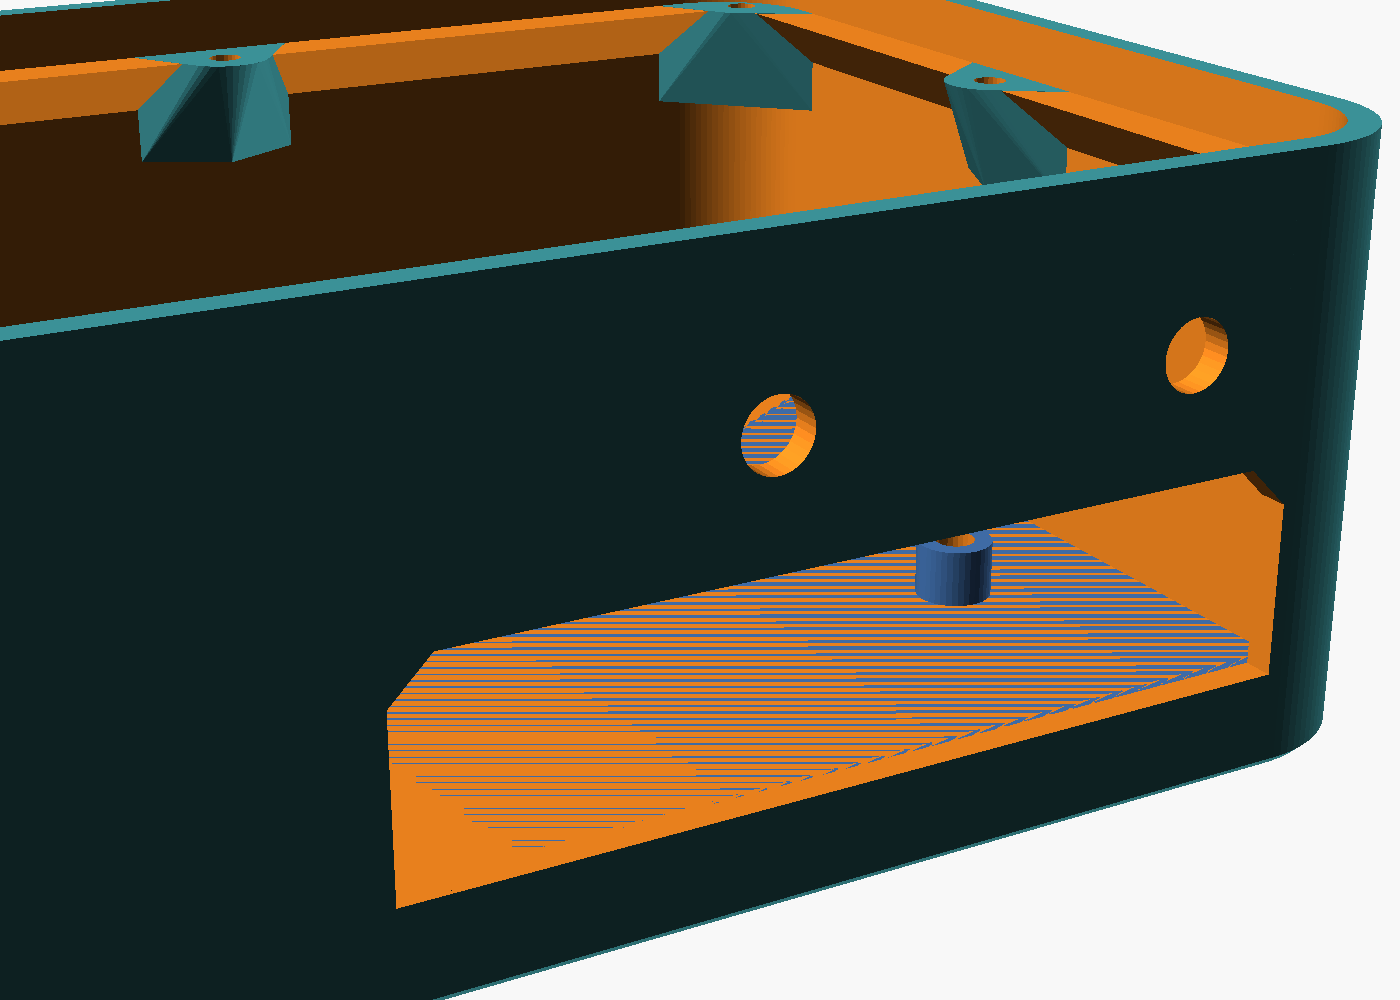
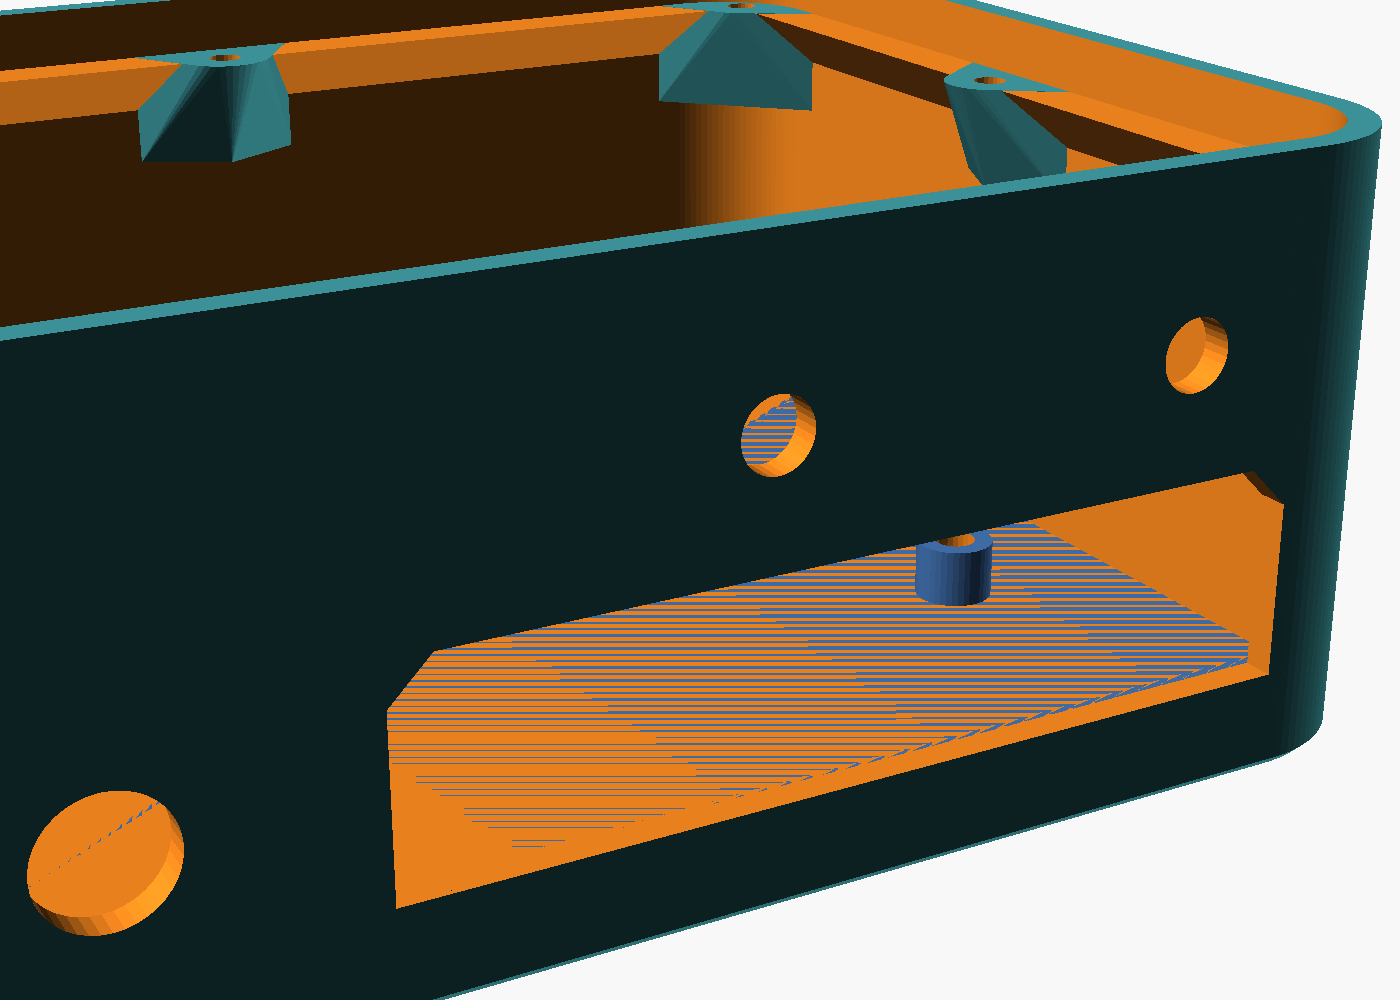
tub: 12 V jack to the back wall, left of the port window (away from the button)

Changed region(s): [[0.0, 0.775, 0.1536, 0.961]]

diff --git a/hardware/wiring.md b/hardware/wiring.md
@@ -13,7 +13,7 @@ stepper any more.
 ## Overview
 
 ```text
- 12 V supply ── DC jack (tub left wall) ── SPLIT BLOCK (left of the Orin)    
+ 12 V supply ── DC jack (tub back wall) ── SPLIT BLOCK (left of the Orin)    
                                             ├─ + / − ──────────────────────────────► Orin carrier DC in (9–19 V)
                                             └─ + ── inline FUSE (5×20, 4 A) ──┐
                                                − ─────────────────────────────┴──► servo adapter DC screw terminal
@@ -46,7 +46,7 @@ stepper any more.
 
 | From | To | Wire | Notes |
 | --- | --- | --- | --- |
-| DC jack + / − | split block + / − | 16–18 AWG | the block (2 poles cut from a uxcell X3-2012 strip) sits in the **power channel**, the 32 mm gap between the Orin and the left wall, in front of the jack and the power button: screws up, wire tubes running front to back, one M3 screw through its centre mounting hole into a heat-set insert in the floor boss. Its screws can be tightened from above with the lid off |
+| DC jack + / − | split block + / − | 16–18 AWG | the block (2 poles cut from a uxcell X3-2012 strip) sits in the **power channel**, the 32 mm gap between the Orin and the left wall, in front of the power button: screws up, wire tubes running front to back, one M3 screw through its centre mounting hole into a heat-set insert in the floor boss. Its screws can be tightened from above with the lid off |
 | Split block + / − | Orin carrier DC jack | 18 AWG, DC plug pigtail | always on: the power button controls the Jetson, not this feed |
 | Split block + | inline fuse holder (**4 A fast-blow**, 5 × 20 mm) | 16 AWG (the holder's own leads) | lies along the plug zone's back wall; change the fuse with the lid off |
 | Fuse holder | servo adapter DC terminal **+** | 16 AWG | up through the lid slot |
@@ -76,8 +76,8 @@ The carrier's **12-pin button header** (read the designator on the board's silks
 | 11 | LED + | 12 | LED − |
 
 - **The button:** the Geekworm T100 case's 19 mm momentary switch with an LED ring, in a 19.2 mm hole
-  in the tub's **left wall**, 34 mm up, 31 mm in front of the inside of the back wall (over the jack, behind
-  the terminal block). Its body runs across the power channel; it must stay **under 38 mm** behind
+  in the tub's **left wall**, 34 mm up, 31 mm in front of the inside of the back wall (behind the terminal
+  block). Its body runs across the power channel; it must stay **under 38 mm** behind
   the wall (connector included), or it reaches over the carrier's DC jack.
 - Its **power leads** (the "ON" pair, 9") go to **pins 1 and 2** of the 12-pin button header (on the
   carrier, just inside the back edge, between its DC jack and HDMI port; polarity doesn't matter).
@@ -144,4 +144,7 @@ both its power and its serial link to the Orin (it shows up as `303A:1001`).
   down the lid slot, leave the tub through the window, loop down and plug straight in from outside.
   This avoids bending plugs in the 26 mm plug zone, so straight plugs work.
 - **Orin power:** a **right-angle** barrel plug in the carrier's DC jack (the window doesn't expose it; a
-  straight plug is too long for the plug zone), its lead turned left into the power channel.
+  straight plug is too long for the plug zone), its lead pointing **up**, then over into the power channel.
+- **12 V jack:** on the back wall, left of the port window, 20 mm up. Inside, its body sits 4 mm left of the
+  carrier's DC jack, so don't point that right-angle plug's lead left; its wires run forward along the
+  power channel (under the button) to the terminal block.
